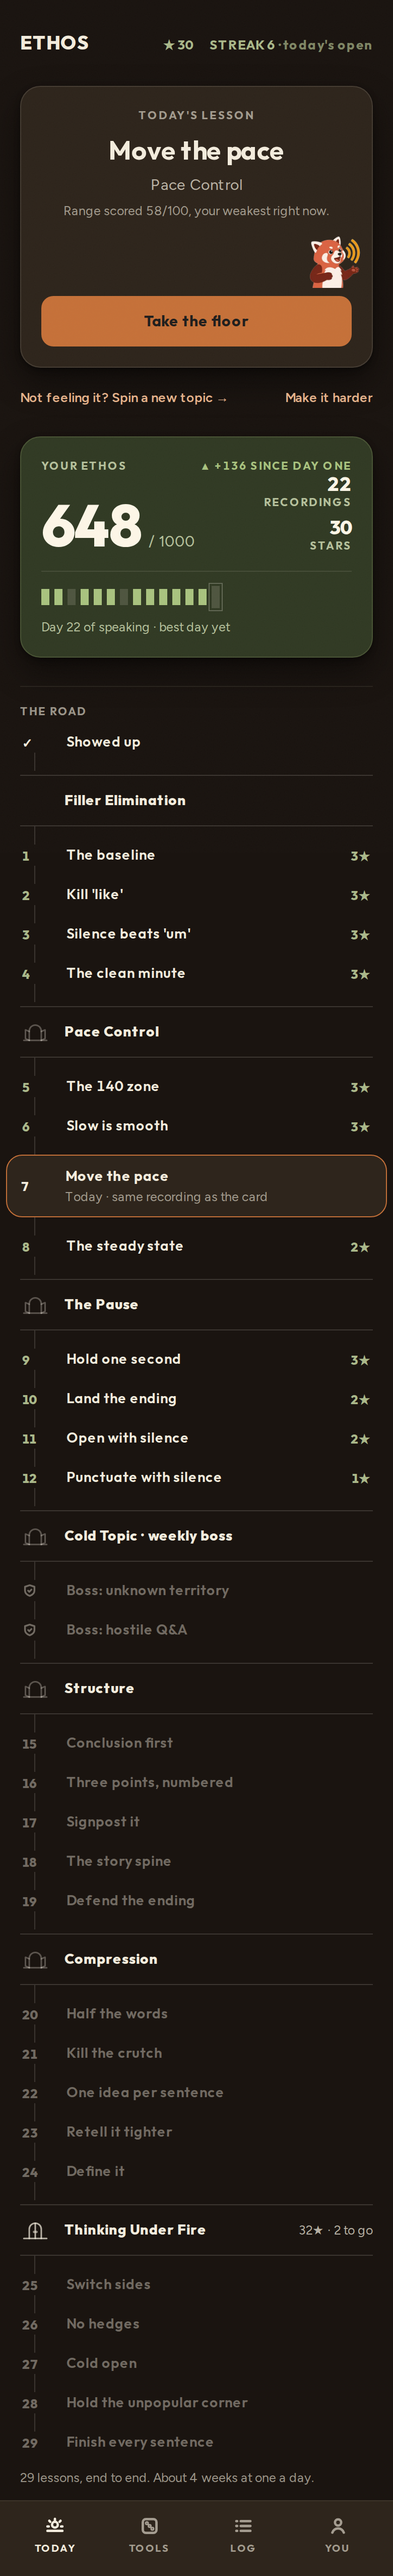
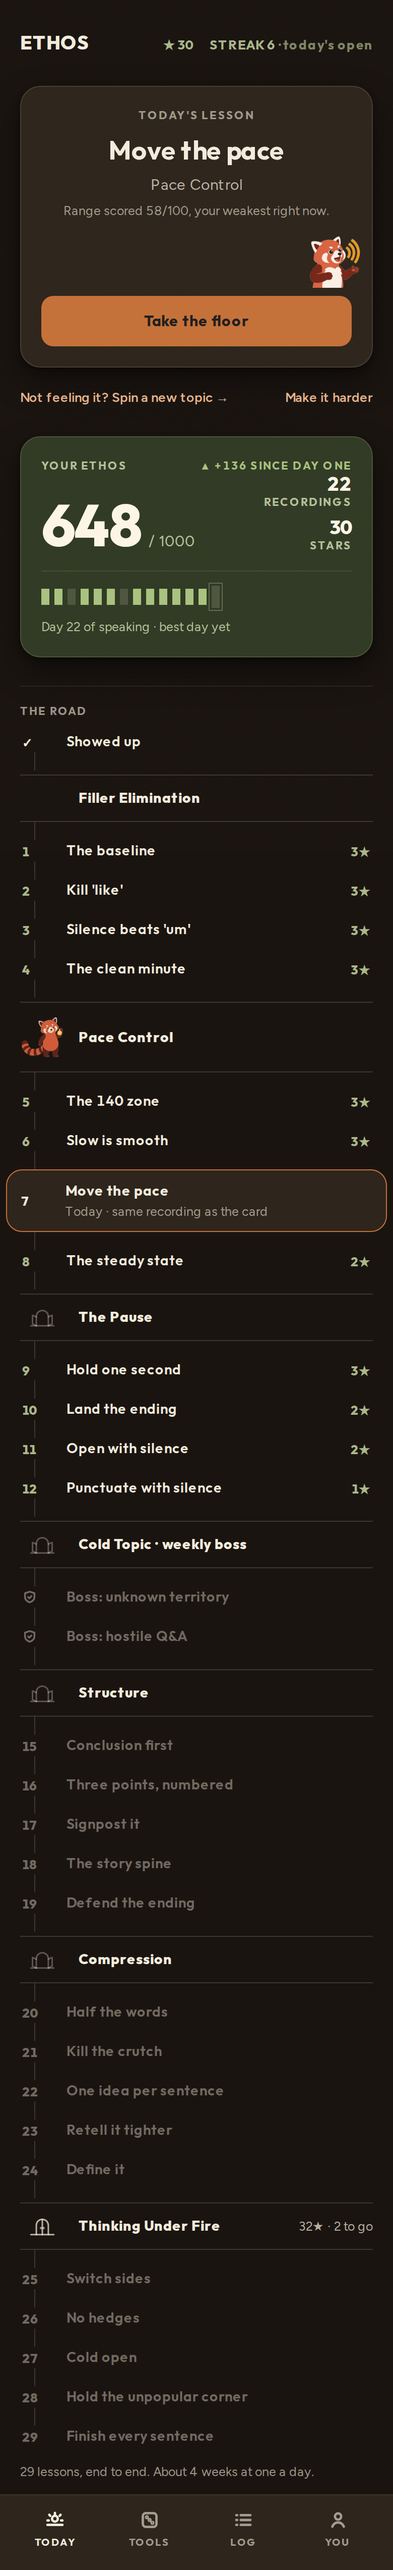
Job 4: the unit marks, and why they are not three-frame loops
Generated as one three-panel sheet, which should have been the best
case for alignment. It was not: 4.6% taller, 7.7% wider, 81px off axis,
a different tail in every frame. Only the baseline held. At steps(3)
that is a jitter, not a breath, and the overlay is the evidence.

So one clean frame per unit, seven of them, from one character element
built out of the shipped art. Cut with the existing border flood fill,
then normalised the way a set needs and a single pose does not: one
character height, one axis, one baseline.

And only one is on the road at a time. All seven at their checkpoints
looked good and was wrong, because six pandas down a 5000px scroll is
wallpaper and Demos appears at moments. A locked unit shows the door,
every other unit shows it open, and the unit you are standing in shows
Demos doing the thing it trains.

Claude-Session: https://claude.ai/code/session_01ByViNHuJd3sP9TnXSHXejq

diff --git a/components/PathRoad.tsx b/components/PathRoad.tsx
@@ -1,5 +1,6 @@
 "use client";
 
+import Image from "next/image";
 import Link from "next/link";
 import { IconBoss } from "@/components/Icon";
 import { journeySteps, journeySummary } from "@/lib/progress";
@@ -111,6 +112,9 @@ export function PathRoad({
         {steps.map((step, i) => {
           const isCurrent = i === currentIndex;
           const unitHeader = step.unitName !== lastUnit && !step.endowed;
+          /** The unit the current lesson sits in: the one you are on. */
+          const here =
+            currentIndex >= 0 && step.unitName === steps[currentIndex]?.unitName;
           lastUnit = step.endowed ? lastUnit : step.unitName;
           const unit = UNITS.find((u) => u.name === step.unitName);
           const done = !step.endowed && step.stars > 0;
@@ -166,13 +170,36 @@ export function PathRoad({
                       being outlined boxes (#234), so they drop to the
                       `edge` rule. The door is the road's one lock
                       symbol (#156); the distance keeps #44's count. */}
-                  <div className="mt-1 flex items-center gap-3.5 border-y border-edge py-3.5">
+                  <div className="mt-1 flex items-center gap-3.5 border-y border-edge py-3">
+                    {/*
+                     * Three states, each carrying its own information
+                     * (#248). A locked unit shows the door, which is the
+                     * road's one lock symbol (#156). Every other unit
+                     * shows the door open. And the unit you are actually
+                     * IN shows Demos doing the thing it trains.
+                     *
+                     * Only that one. Seven poses exist, one per unit, and
+                     * putting them all on the road turns the character
+                     * into wallpaper down a 5000px scroll — vision.md is
+                     * explicit that Demos appears at moments and never as
+                     * furniture. One pose, at the checkpoint you are
+                     * standing on, IS the moment: it says you are here.
+                     * Static, because nothing on the road moves.
+                     */}
                     <span
-                      className={`flex w-[30px] shrink-0 justify-center ${
+                      className={`flex w-11 shrink-0 justify-center ${
                         step.locked ? "text-stone-500" : "text-stone-300"
                       }`}
                     >
-                      {unit.unlocksAt > 0 ? (
+                      {here ? (
+                        <Image
+                          src={`/unit/${unit.id}.webp`}
+                          alt=""
+                          width={128}
+                          height={128}
+                          className="demos pointer-events-none w-11"
+                        />
+                      ) : unit.unlocksAt > 0 ? (
                         <Gate open={!step.locked} width={26} />
                       ) : null}
                     </span>

diff --git a/DECISIONS.md b/DECISIONS.md
@@ -348,6 +348,8 @@ Locked means locked. Reopen only with user data or Timothy's explicit call.
 
 247. 2026-09-12 · **The numbers that could not tick, and the strip that could not photograph them** · closing Job 3. `CountUp` rendered a bare integer, so two numbers were quietly excluded from the rule: total XP reads 1,195 with a separator and fillers-per-minute reads 2.8 with a decimal, and both landed whole while everything around them counted. It takes a `format` now and carries the running value as a float, so a frame is written the same way the final number is — the log's decimal rows count in the shape the table already printed them, and 1195 never flashes on its way to 1,195. The score card's 58px hero and the streak in Today's header join them: the hero was the one number on the log that landed whole while every smaller number under it ticked, and the streak sat beside a star count that counted. `.fill-y` gives a bar that grows UP the same landing `.fill` gives one that grows along, because the heatmap's columns stand on a baseline and `scaleX` from the left had nothing to say to them. And the frame strip's timings were fiction: a `page.screenshot()` round trip costs 450 to 700ms here, so sleeping 80ms between shutters put the "80ms" caption at about 700ms and nothing under 300ms was photographable at all. Frames are SEEKED now through the Web Animations API — let the tap start everything, pause every running animation, set each clock to the moment wanted — which is deterministic and free of whatever else the machine is doing; `--wall` keeps real time for the count-ups, which run on their own animation frame and have no clock to seek.
 
+248. 2026-09-12 · **The three-frame loops drifted, so the unit marks are one clean frame each, and Demos stands on one checkpoint** · Job 4's second half, and the fallback Timothy wrote into the brief. Generated as a single three-panel sheet rather than three separate calls, which should have been the strongest case for alignment: it was not. Measured across the panels, the character came out **4.6% taller, 7.7% wider and 81px off-axis**, with a different tail in every frame — the baseline was the only thing that held, to 1px. At `steps(3)` and 400ms that is not a breath, it is a jitter, and the overlay in `docs/look/poses/pause-overlay.png` is the evidence rather than the opinion. So: one clean frame per unit, seven of them, from one character Element built out of the shipped art so they are the same panda; cut with the border flood-fill from `scripts/cut-demos-alpha.mjs` (interior whites survive, the edge feathers, the colour bleeds out so a downscale cannot pull a white fringe onto the dark theme); then the thing a SET needs and a single pose does not — every mark scaled to the same character height, centred on one axis, stood on one baseline, because seven drawings at their own sizes read as seven mascots. **And only one of them is on the road at a time.** All seven at their checkpoints looked good and was wrong: six pandas down a 5000px scroll is wallpaper, and vision.md says Demos appears at moments and never as furniture. A locked unit shows the door, which is the road's one lock symbol; every other unit shows it open; and the unit you are standing in shows Demos doing the thing it trains. Static — nothing on the road moves. The idle loops that were the point of this job died with the drift measurement; the loops that already exist (`.demos-idle`, `-sway`, `-bob`, `-tilt`, `-breath`) stay where a pose IS the screen, which is the introduction. The other six marks ship for the unit intro screens as their copy lands (only `filler` has approved copy today).
+
 ## Open queue (research-once, decide, move up)
 
 - Currency name — after launch copywriting pass

diff --git a/STATE.md b/STATE.md
@@ -22,6 +22,7 @@ The road is a list, rows sit on the ground under hairlines, and the eyebrow regi
 - Motion: 200ms ease-out default, 600 for celebration. Classes `.arrive`, `.arrive-x`, `.reveal`, `.fill`, `.star-land`, `.sheet-panel`, `.sheet-scrim`, `.rec-ring`, `.dur-*`. Reduced motion is `data-motion="reduce"` on `<html>`. `.press` scales 0.985 and veils the fill on every pointer type.
 - Elevation: `--shadow-1/2/3` and `.elev-1/2/3`. Type: two uppercase registers, `.label-data` (section eyebrow) and `.label-micro` (column heads, chips, tile labels, the nav). Text sizes are body 15, caption 12.5, row title and control label 14/700, text link 13/600; numbers keep the display scale at 800, tabular.
 - Rhythm, owned by the parent: section `mt-7`, eyebrow to content `mt-3`, row `py-3`, card to card `gap-3`, card `p-4`, hero `p-5`, screen `px-5 pt-7 pb-22`. Shared components carry no outer margin.
+- Unit marks: `public/unit/<id>.webp`, one Demos pose per unit, cut and normalised by `scripts/cut-unit-marks.mjs` from `assets/demos-unit-*.png`. The road shows one, on the unit you are in.
 - Icons: `components/Icon.tsx`, 24px line set. Primitives: `components/ui/` (EmptyState, ErrorState, Overlay, Skeleton), plus ScoreCard, Nav, PathRoad, DayTrail.
 
 ## Screens
@@ -32,7 +33,6 @@ Today `/`, Tools `/games`, Log `/history`, You `/you`, Shop `/shop`, the recordi
 
 - The one tap is a rectangle at 12. A pill primary is the reference read (Headspace) and would be the only shape of its kind on Today; #201 chose rectangles. Worth one experiment.
 - Desktop shell: same stage, constrained, side rail with Demos, streak and day trail.
-- The seven unit marks on the road are still emoji: seven Demos poses.
 - Carousel dots: the active dot slides along the row.
 - Home card shows the celebrate pose over a pose just bought: the equipped pose wins.
 - `nextLesson` pins the floor to the first lesson under three stars: advance on any star, revisit for the missing ones.
